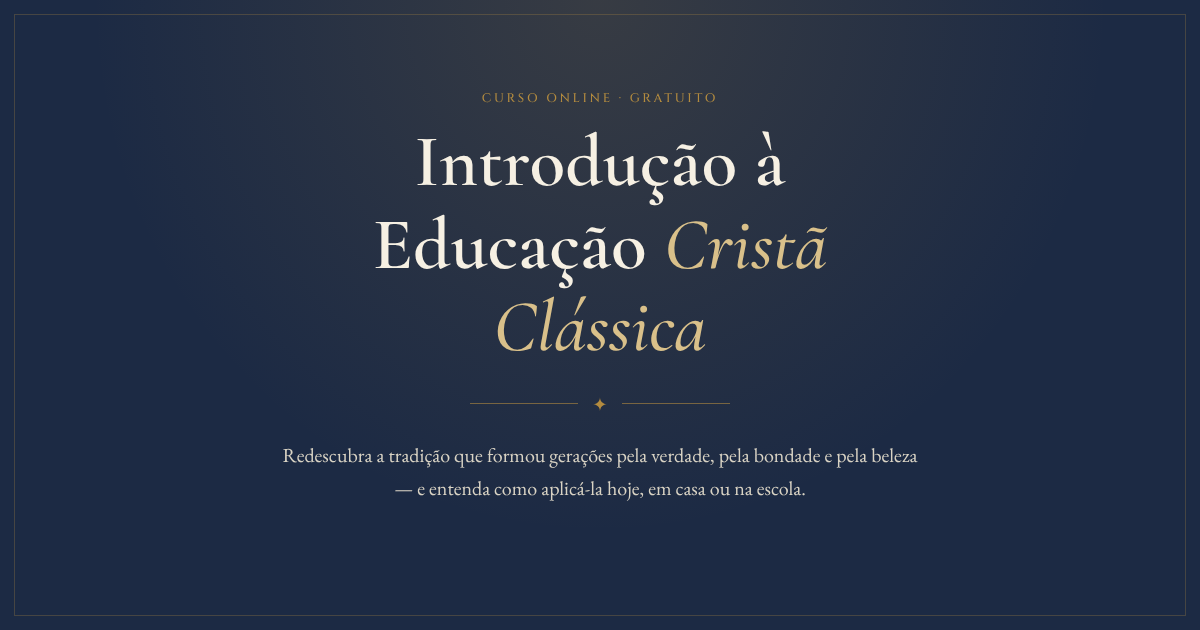
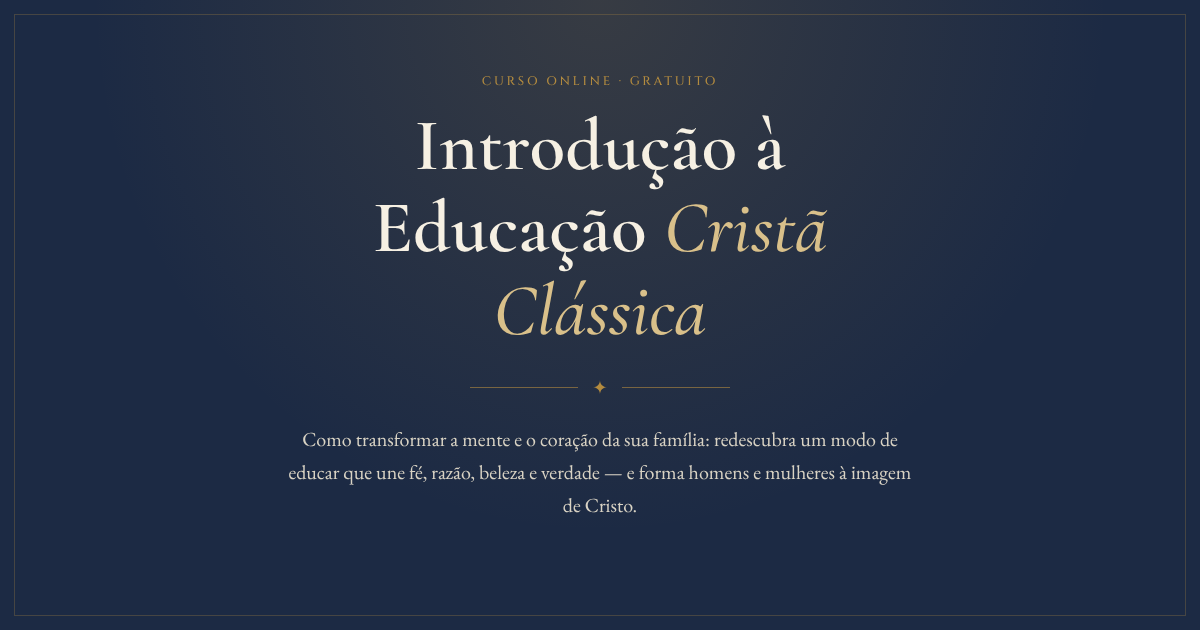
Conteúdo real do curso: 7 módulos + conclusão, 38 aulas, textos do livro
Claude-Session: https://claude.ai/code/session_019zbxNExRumNR7DhoC4HdTc

Changed region(s): [[0.3083, 0.181, 0.7092, 0.573], [0.2467, 0.6937, 0.7708, 0.8143], [0.4008, 0.1206, 0.5858, 0.181]]

diff --git a/index.html b/index.html
@@ -243,6 +243,28 @@
   .final .btn { background: var(--navy-deep); }
   footer { background: var(--navy-deep); color: #9c9586; text-align: center; padding: 40px 0; font-size: .95rem; }
   footer .soli { font-family: var(--caps); letter-spacing: .3em; color: var(--gold); font-size: .8rem; margin-bottom: .5rem; }
+  /* Para quem é / objetivos */
+  .cards { display: grid; grid-template-columns: repeat(3, 1fr); gap: 24px; }
+  .card { border-top: 2px solid var(--oxblood); padding-top: 1.25rem; }
+  .card h3 { font-size: 1.6rem; margin-bottom: .5rem; }
+  .card p { margin: 0; color: var(--ink-soft); font-size: 1.05rem; }
+  @media (max-width: 860px) { .cards { grid-template-columns: 1fr; } }
+  .goals { list-style: none; padding: 0; margin: 1.5rem 0 0; }
+  .goals li { padding: .7rem 0 .7rem 2.2rem; border-bottom: 1px solid var(--rule); position: relative; }
+  .goals li::before { content: "✦"; position: absolute; left: .4rem; color: var(--gold); }
+  .goals strong { font-family: var(--display); font-size: 1.3rem; color: var(--navy); font-weight: 600; }
+  .trinity { max-width: 44rem; margin: 2.5rem auto 0; text-align: center; font-style: italic; color: var(--ink-soft); }
+  .book { display: grid; grid-template-columns: 220px 1fr; gap: 48px; align-items: center; }
+  .book-cover {
+    aspect-ratio: 2 / 3; background: var(--navy); color: var(--parchment); padding: 22px 18px;
+    display: flex; flex-direction: column; justify-content: space-between; border: 1px solid var(--gold);
+    outline: 1px solid var(--gold); outline-offset: -8px; box-shadow: 8px 10px 0 var(--parchment-dark);
+  }
+  .book-cover .t { font-family: var(--display); font-size: 1.15rem; line-height: 1.2; }
+  .book-cover .t em { color: var(--gold-soft); }
+  .book-cover .a { font-family: var(--caps); font-size: .65rem; letter-spacing: .2em; color: var(--gold-soft); }
+  .book p { margin: 0 0 1rem; }
+  @media (max-width: 760px) { .book { grid-template-columns: 1fr; } .book-cover { max-width: 200px; margin: 0 auto; } }
 </style>
 </head>
 <body>
@@ -270,13 +292,13 @@
     <p class="eyebrow">Curso online · Gratuito</p>
     <h1>Introdução à Educação <em>Cristã Clássica</em></h1>
     <div class="ornament center">✦</div>
-    <p class="lede">Redescubra a tradição que formou gerações pela verdade, pela bondade e pela beleza — e entenda como aplicá-la hoje, em casa ou na escola.</p>
+    <p class="lede">Como transformar a mente e o coração da sua família: redescubra um modo de educar que une fé, razão, beleza e verdade — e forma homens e mulheres à imagem de Cristo.</p>
     <div class="actions">
       <a class="btn" href="#aulas">Começar a assistir</a>
       <a class="btn ghost" href="#sobre">Conhecer o curso</a>
     </div>
     <div class="meta">
-      <span id="meta-count">12 aulas</span><span>·</span><span>4 módulos</span><span>·</span><span>Assista no seu ritmo</span>
+      <span id="meta-count">aulas</span><span>·</span><span>7 módulos + conclusão</span><span>·</span><span>Assista no seu ritmo</span>
     </div>
   </div>
 </section>
@@ -285,15 +307,20 @@
   <div class="wrap about-grid">
     <div>
       <p class="eyebrow">Sobre o curso</p>
-      <h2>Uma educação que forma o homem inteiro</h2>
+      <h2>Uma trilha clara para entender e aplicar a educação cristã clássica</h2>
       <div class="ornament">✦</div>
-      <p class="dropcap">A educação cristã clássica não é um método novo, mas uma herança antiga. Ela une a sabedoria da tradição greco-romana à fé cristã, buscando formar pessoas que amam o que é digno de ser amado.</p>
-      <p>Neste curso introdutório, você vai conhecer os fundamentos dessa tradição: sua história, o Trivium, a ideia de <em>paideia</em> e o papel dos grandes livros — com uma linguagem acessível a pais, professores e educadores.</p>
-      <p><em>[Texto provisório — será substituído pela descrição do curso que você me enviar.]</em></p>
+      <p class="dropcap">A educação cristã clássica não é um método novo: é antiga, enraizada nas Escrituras, alinhada à natureza humana e sustentada por séculos de tradição cristã. Este curso é uma introdução clara e prática a essa herança.</p>
+      <p>As aulas seguem as perguntas que os jornalistas fazem — <em>para quem, o quê, por quê, para quê, como e onde</em> — e formam uma estrutura curricular simples de seguir, do primeiro conceito até a aplicação na sua casa.</p>
+      <p>Você vai conhecer a grande conversa, as grandes ideias e os grandes livros; a história da educação, dos gregos e romanos até hoje; e o <em>trivium</em>, o método que ensina a aprender.</p>
+      <ul class="goals">
+        <li><strong>Verdade, bondade e beleza</strong></li>
+        <li><strong>Retorno à <em>imago Dei</em></strong></li>
+        <li><strong>Formação para a eternidade</strong></li>
+      </ul>
     </div>
     <blockquote>
-      “Tudo o que é verdadeiro, tudo o que é respeitável, tudo o que é justo, tudo o que é puro, tudo o que é amável… seja isso o que ocupe o vosso pensamento.”
-      <cite>Filipenses 4.8</cite>
+      “Ponde-vos nos caminhos, e vede, e perguntai pelas veredas antigas, qual é o bom caminho, e andai por ele; e achareis descanso para a vossa alma.”
+      <cite>Jeremias 6.16</cite>
     </blockquote>
   </div>
 </section>
@@ -301,28 +328,52 @@
 <section class="trivium">
   <div class="wrap">
     <div class="section-head">
-      <p class="eyebrow">O que você vai aprender</p>
+      <p class="eyebrow">O método</p>
       <h2>As três artes do Trivium</h2>
-      <p>O coração da educação clássica: aprender a conhecer, a pensar e a expressar a verdade.</p>
+      <p>Cada fase corresponde a uma capacidade natural do aluno: primeiro, a memorização dos fatos; depois, o raciocínio sobre eles; por fim, a expressão clara e eloquente.</p>
     </div>
     <div class="pillars">
       <div class="pillar">
         <div class="num">I</div>
         <h3>Gramática</h3>
         <div class="latin">Grammatica</div>
-        <p>O fundamento: conhecer, memorizar e nomear as coisas como elas são.</p>
+        <p>O domínio dos fatos: observar, memorizar e nomear as coisas como elas são.</p>
       </div>
       <div class="pillar">
         <div class="num">II</div>
         <h3>Lógica</h3>
         <div class="latin">Dialectica</div>
-        <p>A compreensão: ordenar o pensamento, argumentar e discernir o verdadeiro do falso.</p>
+        <p>O domínio das relações entre os fatos: interpretar, ordenar o pensamento e discernir.</p>
       </div>
       <div class="pillar">
         <div class="num">III</div>
         <h3>Retórica</h3>
         <div class="latin">Rhetorica</div>
-        <p>A sabedoria expressa: comunicar a verdade com clareza, beleza e persuasão.</p>
+        <p>O domínio dos usos e aplicações: comunicar a verdade com clareza, beleza e persuasão.</p>
+      </div>
+    </div>
+    <p class="trinity">Deus primeiro nos diz quem Ele é (gramática), depois nos ensina como isso se conecta ao restante da realidade (lógica) e, por fim, nos envia a comunicar, ensinar e testemunhar (retórica).</p>
+  </div>
+</section>
+
+<section id="para-quem">
+  <div class="wrap">
+    <div class="section-head">
+      <p class="eyebrow">Para quem é este curso</p>
+      <h2>Para toda a família</h2>
+    </div>
+    <div class="cards">
+      <div class="card">
+        <h3>Pais de filhos em idade escolar</h3>
+        <p>E também noivos e recém-casados. A decisão sobre a educação dos filhos precisa ser tomada desde cedo — e precisa ser espiritual, não apenas prática.</p>
+      </div>
+      <div class="card">
+        <h3>Adultos</h3>
+        <p>Educação não termina na escola ou na faculdade. Com método e direção, você pode investir na sua própria formação — a autoeducação.</p>
+      </div>
+      <div class="card">
+        <h3>Crianças e adolescentes</h3>
+        <p>O <em>trivium</em> é uma caixa de ferramentas para aprender a aprender — e pode ser aplicado em casa, qualquer que seja a escola.</p>
       </div>
     </div>
   </div>
@@ -333,7 +384,7 @@
     <div class="section-head">
       <p class="eyebrow">Sala de aula</p>
       <h2>Aulas do curso</h2>
-      <p>Escolha uma aula na lista ao lado. Novas aulas são publicadas regularmente.</p>
+      <p>Escolha uma aula na lista. As aulas marcadas como “Em breve” serão publicadas nos próximos dias.</p>
     </div>
     <div class="player-grid">
       <div class="stage">
@@ -363,8 +414,28 @@
       <p class="eyebrow">Seu professor</p>
       <h2>Marlon Pevidor</h2>
       <div class="ornament">✦</div>
-      <p>[Mini-biografia provisória.] Educador dedicado à educação cristã clássica, Marlon ajuda pais, professores e escolas a recuperarem uma visão de ensino enraizada na tradição e nas Escrituras.</p>
-      <p>Me envie sua biografia, formação e experiência para substituir este texto.</p>
+      <p>Discípulo de Jesus Cristo desde 1999, Marlon é casado com Kelen desde 2004 e pai de três filhos. A família é membro da Igreja Batista Central de Taguatinga, em Brasília, onde ele serviu como diretor de educação cristã de 2021 a 2024.</p>
+      <p>É professor de humanidades integradas na Logos Online School (Moscow, Idaho, EUA), licenciado em história e geografia e pós-graduado em Educação Cristã Clássica pela Faculdade Internacional Cidade Viva.</p>
+      <p>Descobriu a educação cristã clássica em 2015, através de <em>Como ler livros</em>, de Mortimer Adler — e desde então dedica-se a ajudar famílias a recuperar uma educação antiga, bíblica e orientada pelas Escrituras.</p>
+    </div>
+  </div>
+</section>
+
+<section class="trivium" id="livro">
+  <div class="wrap book">
+    <div class="book-cover">
+      <div class="t">Como transformar a mente e o coração de sua família através da <em>educação cristã clássica</em></div>
+      <div class="a">MARLON PEVIDOR</div>
+    </div>
+    <div>
+      <p class="eyebrow">O livro do curso</p>
+      <h2>Aprofunde-se com o livro</h2>
+      <div class="ornament">✦</div>
+      <p>Este curso deu origem ao livro <em>Como transformar a mente e o coração de sua família através da educação cristã clássica</em>, que acompanha os mesmos capítulos com mais detalhes, exemplos e leituras complementares.</p>
+      <blockquote style="font-size:1.25rem;padding:1.4rem 1.6rem">
+        “Marlon expressa seus conceitos com convicção e admirável clareza.”
+        <cite>Ron Prater, no prefácio</cite>
+      </blockquote>
     </div>
   </div>
 </section>
@@ -377,20 +448,20 @@
     </div>
     <div class="faq-list">
       <details>
-        <summary>Para quem é este curso?</summary>
-        <p>Para pais que educam em casa, professores, diretores de escola e qualquer pessoa interessada em conhecer a educação cristã clássica.</p>
+        <summary>Preciso ter algum conhecimento prévio?</summary>
+        <p>Não. O curso é introdutório e começa do zero, explicando cada conceito — <em>trivium</em>, <em>quadrivium</em>, sete artes liberais, grandes livros — passo a passo.</p>
       </details>
       <details>
-        <summary>Preciso ter algum conhecimento prévio?</summary>
-        <p>Não. O curso é introdutório e parte do zero.</p>
+        <summary>Meus filhos estudam numa escola convencional. O curso serve para mim?</summary>
+        <p>Sim. A formação da mente não depende exclusivamente da escola. O curso mostra caminhos como o <em>afterschooling</em> (aplicar a educação clássica em casa, no contraturno), a educação domiciliar e as escolas cristãs clássicas.</p>
+      </details>
+      <details>
+        <summary>Toda escola cristã é uma escola clássica?</summary>
+        <p>Não. Muitas escolas confessionais seguem a BNCC e acrescentam elementos religiosos, mas não adotam os fundamentos da educação cristã clássica. O módulo VII explica as diferenças.</p>
       </details>
       <details>
         <summary>O curso é gratuito?</summary>
-        <p>Sim, todas as aulas ficam disponíveis gratuitamente no YouTube e podem ser assistidas aqui. [Ajuste se for diferente.]</p>
-      </details>
-      <details>
-        <summary>Com que frequência saem novas aulas?</summary>
-        <p>As aulas são publicadas à medida que ficam prontas. As que ainda não foram lançadas aparecem como “Em breve”.</p>
+        <p>Sim. Todas as aulas ficam disponíveis gratuitamente no YouTube e podem ser assistidas aqui, no seu ritmo.</p>
       </details>
     </div>
   </div>
@@ -398,9 +469,9 @@
 
 <section class="final">
   <div class="wrap">
-    <h2>Comece hoje a sua jornada</h2>
-    <p>A primeira aula já está esperando por você.</p>
-    <a class="btn" href="#aulas">Assistir à primeira aula</a>
+    <h2>Este é o tempo de restaurar</h2>
+    <p>A educação cristã clássica é uma semente de fé lançada no solo da história. Comece hoje a cultivá-la na sua família.</p>
+    <a class="btn" href="#aula-1">Assistir à primeira aula</a>
   </div>
 </section>
 
@@ -412,42 +483,89 @@
 </footer>
 
 <script>
-/* ==========================================================
-   AULAS DO CURSO — edite apenas esta lista.
-   Para publicar uma aula, cole o link do YouTube em "youtube".
+/* ==================================================================
+   AULAS DO CURSO — para publicar uma aula, cole o link do YouTube
+   entre as aspas de youtube: "". O campo "arquivo" é só o nome do
+   vídeo no Google Drive, para você saber qual é qual.
    Aulas com youtube vazio aparecem como "Em breve".
-   ========================================================== */
+   ================================================================== */
 const MODULOS = [
   {
-    titulo: "Módulo I · Fundamentos",
+    titulo: "Módulo I · Apresentação",
     aulas: [
-      { titulo: "O que é educação cristã clássica?", descricao: "Uma visão geral do curso e da tradição que vamos estudar.", youtube: "" },
-      { titulo: "Por que a educação moderna perdeu o rumo", descricao: "Descrição provisória.", youtube: "" },
-      { titulo: "Verdade, bondade e beleza", descricao: "Descrição provisória.", youtube: "" },
+      { arquivo: "M1A1", youtube: "", titulo: "O que você vai aprender neste curso?", descricao: "Uma visão geral da trilha do curso, organizada pelas perguntas: para quem, o quê, por quê, para quê, como e onde." },
+      { arquivo: "M1A2", youtube: "", titulo: "Quem sou eu?", descricao: "Um pouco da história do professor Marlon Pevidor e de como ele descobriu a educação cristã clássica." },
     ],
   },
   {
-    titulo: "Módulo II · História da tradição",
+    titulo: "Módulo II · Para quem é este curso?",
     aulas: [
-      { titulo: "A paideia grega e romana", descricao: "Descrição provisória.", youtube: "" },
-      { titulo: "A Igreja e a educação na Idade Média", descricao: "Descrição provisória.", youtube: "" },
-      { titulo: "Dorothy Sayers e a redescoberta", descricao: "Descrição provisória.", youtube: "" },
+      { arquivo: "M2A1p1", youtube: "", titulo: "Pais de filhos em idade escolar (parte 1)", descricao: "Por que a decisão sobre a educação dos filhos precisa ser espiritual, e não apenas prática." },
+      { arquivo: "M2A1p2", youtube: "", titulo: "Pais de filhos em idade escolar (parte 2)", descricao: "Escolas confessionais, escolas cristãs clássicas e o que considerar na escolha." },
+      { arquivo: "M2A2",   youtube: "", titulo: "Adultos", descricao: "A educação cristã clássica também é para você: a autoeducação com método e direção." },
+      { arquivo: "M2A3",   youtube: "", titulo: "Crianças e adolescentes", descricao: "O trivium como caixa de ferramentas para aprender a aprender." },
     ],
   },
   {
-    titulo: "Módulo III · O Trivium",
+    titulo: "Módulo III · O que é educação cristã clássica?",
     aulas: [
-      { titulo: "Gramática: o fundamento", descricao: "Descrição provisória.", youtube: "" },
-      { titulo: "Lógica: a arte de pensar", descricao: "Descrição provisória.", youtube: "" },
-      { titulo: "Retórica: a sabedoria expressa", descricao: "Descrição provisória.", youtube: "" },
+      { arquivo: "M3A1p1", youtube: "", titulo: "As grandes ideias, a grande conversa e os grandes livros (parte 1)", descricao: "A conversa mantida pelas maiores mentes dos últimos quase três mil anos — e como entrar nela." },
+      { arquivo: "M3A1p2", youtube: "", titulo: "As grandes ideias, a grande conversa e os grandes livros (parte 2)", descricao: "Continuação." },
+      { arquivo: "M3A1p3", youtube: "", titulo: "As grandes ideias, a grande conversa e os grandes livros (parte 3)", descricao: "Continuação." },
+      { arquivo: "M3A1p4", youtube: "", titulo: "As grandes ideias, a grande conversa e os grandes livros (parte 4)", descricao: "Continuação." },
+      { arquivo: "M3A1p5", youtube: "", titulo: "As grandes ideias, a grande conversa e os grandes livros (parte 5)", descricao: "Continuação." },
+      { arquivo: "M3A2p1", youtube: "", titulo: "Breve história da educação (parte 1)", descricao: "Gregos e romanos: gramática, literatura, lógica e retórica." },
+      { arquivo: "M3A2p2", youtube: "", titulo: "Breve história da educação (parte 2)", descricao: "De Agostinho às sete artes liberais; o Renascimento e a Reforma." },
+      { arquivo: "M3A2p3", youtube: "", titulo: "Breve história da educação (parte 3)", descricao: "Do Iluminismo à educação progressista do século XX." },
     ],
   },
   {
-    titulo: "Módulo IV · Na prática",
+    titulo: "Módulo IV · Por que é importante saber o que é educação cristã clássica?",
     aulas: [
-      { titulo: "Os grandes livros", descricao: "Descrição provisória.", youtube: "" },
-      { titulo: "Educação clássica em casa", descricao: "Descrição provisória.", youtube: "" },
-      { titulo: "Próximos passos", descricao: "Descrição provisória.", youtube: "" },
+      { arquivo: "M4A1p1", youtube: "", titulo: "Uma defesa da educação cristã clássica (parte 1)", descricao: "A defesa positiva: as características da educação cristã clássica." },
+      { arquivo: "M4A1p2", youtube: "", titulo: "Uma defesa da educação cristã clássica (parte 2)", descricao: "Continuação." },
+      { arquivo: "M4A1p3", youtube: "", titulo: "Uma defesa da educação cristã clássica (parte 3)", descricao: "Continuação." },
+      { arquivo: "M4A1p4", youtube: "", titulo: "Uma defesa da educação cristã clássica (parte 4)", descricao: "A defesa negativa: refutando acusações." },
+      { arquivo: "M4A1p5", youtube: "", titulo: "Uma defesa da educação cristã clássica (parte 5)", descricao: "Os defeitos das alternativas." },
+      { arquivo: "M4A2p1", youtube: "", titulo: "Textos bíblicos que referendam a educação cristã clássica (parte 1)", descricao: "O que as Escrituras dizem sobre educar." },
+      { arquivo: "M4A2p2", youtube: "", titulo: "Textos bíblicos que referendam a educação cristã clássica (parte 2)", descricao: "Continuação." },
+      { arquivo: "M4A3p1", youtube: "", titulo: "O trivium e a Trindade (parte 1)", descricao: "Gramática, lógica e retórica como analogia da revelação do Deus trino." },
+      { arquivo: "M4A3p2", youtube: "", titulo: "O trivium e a Trindade (parte 2)", descricao: "Continuação." },
+    ],
+  },
+  {
+    titulo: "Módulo V · Para que serve uma educação cristã clássica?",
+    aulas: [
+      { arquivo: "M5A1p1", youtube: "", titulo: "Objetivos: verdade, bondade e beleza", descricao: "O primeiro grande objetivo da educação cristã clássica." },
+      { arquivo: "M5A1p2", youtube: "", titulo: "Objetivos: o retorno à imago Dei", descricao: "Educar para que sejamos mais parecidos com Cristo." },
+      { arquivo: "M5A1p3", youtube: "", titulo: "Objetivos: formação para a eternidade", descricao: "Uma educação que não forma apenas para o mercado, mas para a eternidade." },
+    ],
+  },
+  {
+    titulo: "Módulo VI · Como autoeducar-se e educar seus filhos?",
+    aulas: [
+      { arquivo: "M6A1p1", youtube: "", titulo: "Os métodos (parte 1)", descricao: "As sete artes liberais: trivium e quadrivium." },
+      { arquivo: "M6A1p2", youtube: "", titulo: "Os métodos (parte 2)", descricao: "Continuação." },
+      { arquivo: "M6A1p3", youtube: "", titulo: "Os métodos (parte 3)", descricao: "Charlotte Mason, com Bruna Bugana." },
+      { arquivo: "M6A2p1", youtube: "", titulo: "Adultos: como educar sua mente (parte 1)", descricao: "Um plano de formação para a autoeducação." },
+      { arquivo: "M6A2p2", youtube: "", titulo: "Adultos: como educar sua mente (parte 2)", descricao: "Continuação." },
+      { arquivo: "M6A3",   youtube: "", titulo: "Crianças", descricao: "Ensinando o trivium e formando uma mente bem treinada." },
+    ],
+  },
+  {
+    titulo: "Módulo VII · Onde adquirir uma educação cristã clássica?",
+    aulas: [
+      { arquivo: "M7A1p1", youtube: "", titulo: "Em casa (parte 1)", descricao: "Educação domiciliar independente." },
+      { arquivo: "M7A1p2", youtube: "", titulo: "Em casa (parte 2)", descricao: "Educação domiciliar orientada." },
+      { arquivo: "M7A1p3", youtube: "", titulo: "Em casa (parte 3)", descricao: "Continuação." },
+      { arquivo: "M7A1p4", youtube: "", titulo: "Em casa (parte 4)", descricao: "Afterschooling: educação clássica no contraturno." },
+      { arquivo: "M7A2",   youtube: "", titulo: "Na escola", descricao: "Escolas cristãs clássicas e outras alternativas." },
+    ],
+  },
+  {
+    titulo: "Conclusão",
+    aulas: [
+      { arquivo: "M8A1", youtube: "", titulo: "E agora? O que fazer?", descricao: "Reparando as ruínas: um chamado à ação." },
     ],
   },
 ];
